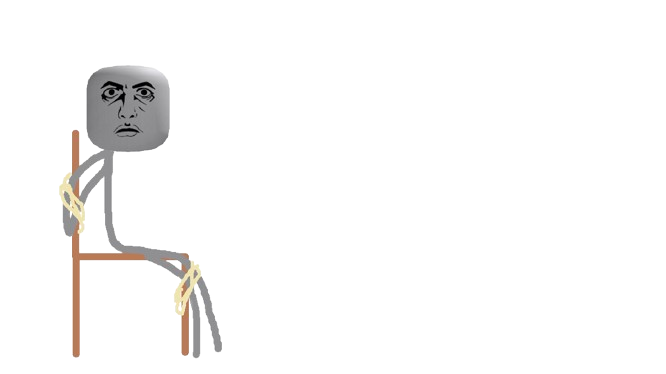
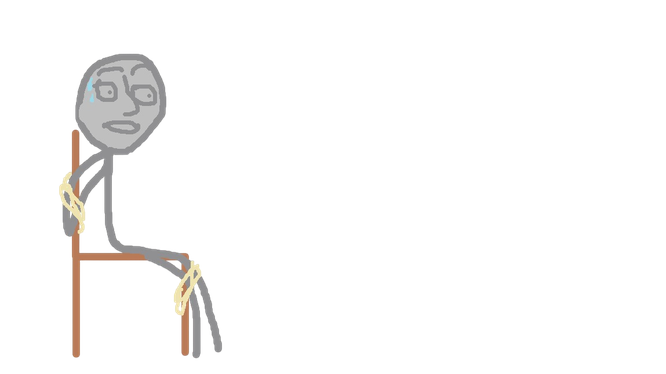
new stuff

Changed region(s): [[0.0901, 0.1471, 0.2703, 0.4118], [0.1201, 0.6765, 0.1802, 0.7059]]

diff --git a/index.css b/index.css
@@ -78,8 +78,15 @@ body.spotlight-active {
   position: absolute;
   top: 65px;
   left: 50%;
-  width: min(1750px, 180vw);
-  height: min(650px, 82vh);
+  /*
+   * Size the beam from viewport height, not fixed pixel caps. This keeps the
+   * cone's proportions consistent on different desktop monitor dimensions
+   * and wide enough to reach both sides of ultrawide screens.
+   */
+  width: 320vh;
+  height: calc(100vh - 65px);
+  width: 320dvh;
+  height: calc(100dvh - 65px);
   transform: translateX(-50%);
   background: linear-gradient(
     to bottom,
@@ -423,9 +430,11 @@ input:focus-visible {
 .gun {
   position: absolute;
   z-index: 4;
-  top: -2%;
-  right: -2%;
-  width: min(86vw, 1450px);
+  /* Keep the shotgun clear of the hostage's face and level with the head. */
+  top: 3vh;
+  right: auto;
+  left: clamp(20rem, 43vh, 34rem);
+  width: clamp(23rem, 55vh, 34rem);
   aspect-ratio: 290 / 210;
   margin: 0;
   opacity: 1;

diff --git a/README.md b/README.md
@@ -35,7 +35,7 @@ node --check index.js
 node --check game.js
 ```
 
-`test.html` remains a standalone visual experiment. Its warm spotlight is integrated into the main game and flickers on after the intro and flashing-lights warning sequence; it stays off on the intro screens. The character artwork is in `img/guy_start.png`, `img/guy_victory.png`, and `img/guy_death.png`. The main scene uses the full viewport as a textured wall stage, with the HUD arranged away from the central character and gun artwork. It assembles the gun across five wrong guesses and switches to the rescue or loss artwork when the round ends. For debugging, the correct answer is logged to the browser console each time a new round starts.
+`test.html` remains a standalone visual experiment. Its warm spotlight is integrated into the main game and flickers on after the intro and flashing-lights warning sequence; it stays off on the intro screens. The character artwork is in `img/guy_start.png`, `img/guy_victory.png`, and `img/guy_death.png`. The main scene uses the full viewport as a textured wall stage, with the HUD arranged away from the central character and gun artwork. The shotgun is deliberately scaled down and positioned around head height; the lamp beam is sized relative to viewport height to keep its shape consistent across desktop display sizes. The start, victory, and death character images share an identical 666 × 374 pixel canvas so transitions stay aligned. It assembles the gun across five wrong guesses and switches to the rescue or loss artwork when the round ends. For debugging, the correct answer is logged to the browser console each time a new round starts.
 
 ## Credits
 
